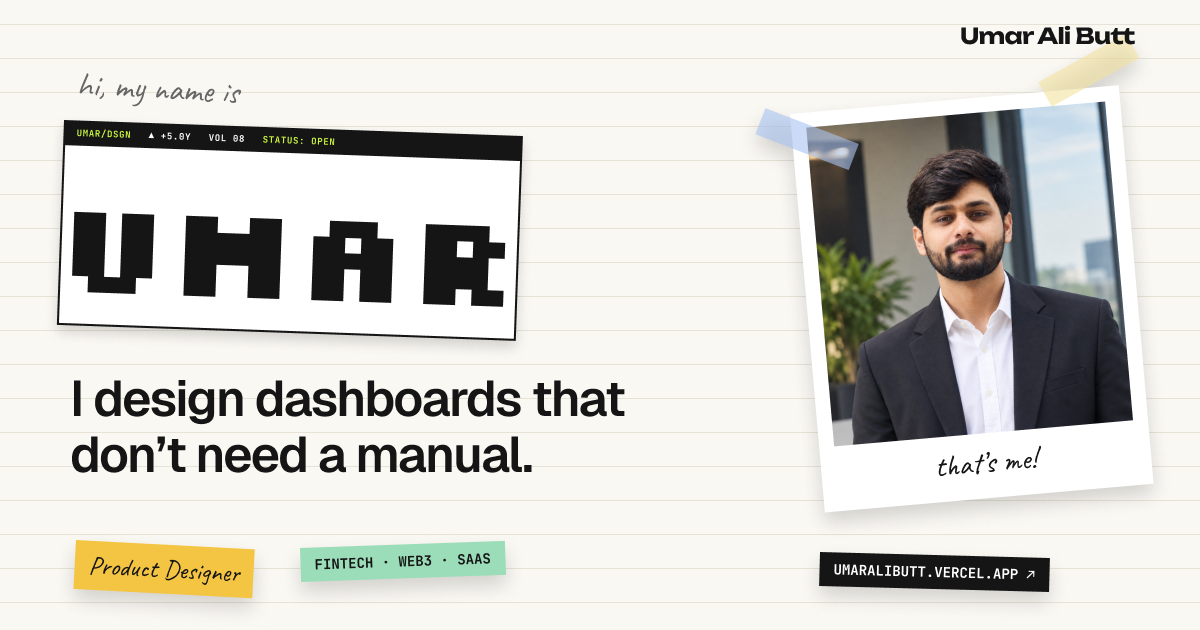
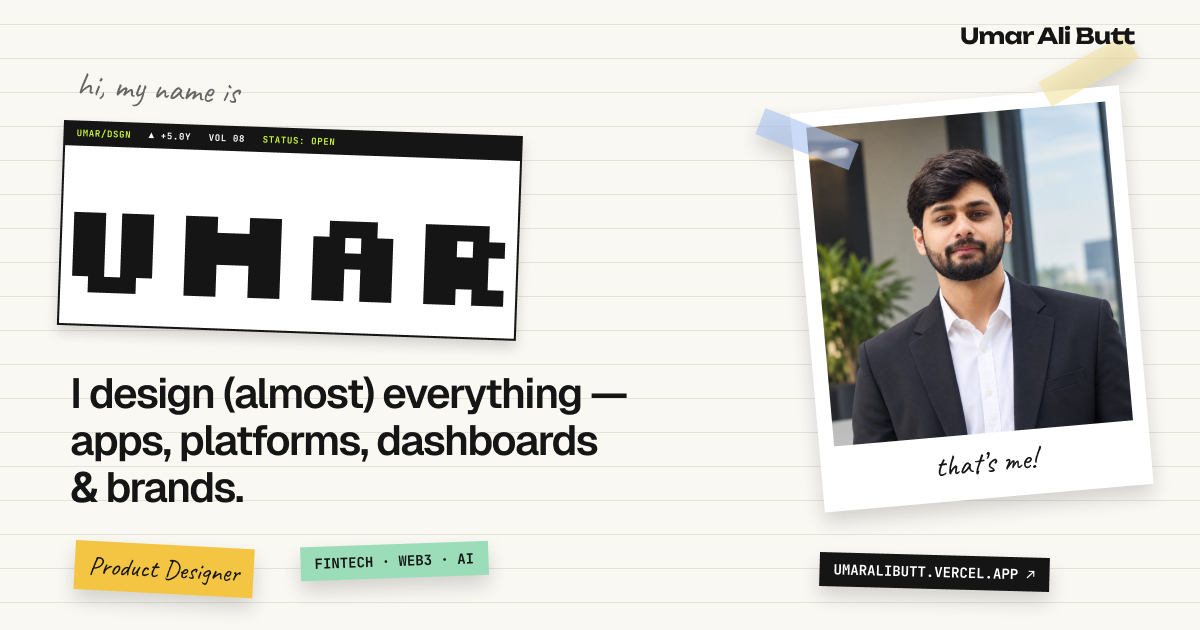
Reposition copy: I design (almost) everything, not dashboards-only
Claude-Session: https://claude.ai/code/session_01FHRpyrWJgE9aiUa2BqmqGA

Changed region(s): [[0.0617, 0.6032, 0.5242, 0.8143], [0.3392, 0.8444, 0.4317, 0.9349], [0.2775, 0.8746, 0.3083, 0.9048]]

diff --git a/app/page.tsx b/app/page.tsx
@@ -39,7 +39,7 @@ function Hero() {
 
         <div className="ticker-wrap">
           <TickerCard />
-          <Sticky color="var(--mint)" rot={4} className="deco st-dash">Dashboards &amp; data</Sticky>
+          <Sticky color="var(--mint)" rot={4} className="deco st-dash">Fintech · Web3 · AI</Sticky>
           <Sticky color="var(--tape2)" rot={-4} className="deco st-ships">Ships, not just shots</Sticky>
           <Sticky color="var(--yellow)" rot={5} hand className="deco st-role">Product Designer</Sticky>
           <HandArrow w={50} h={56} d="M40 4c5 20 0 36-30 44" end={[10, 48]} head={165} style={{ left: -100, top: 136 }} />
@@ -47,15 +47,15 @@ function Hero() {
           <HandArrow w={60} h={30} d="M2 12c14 14 34 12 52-2" end={[54, 10]} head={-25} style={{ left: 'calc(100% - 4px)', top: 186 }} />
         </div>
 
-        <p className="open"><span className="dot blue" />Open to new work &amp; messy dashboards</p>
+        <p className="open"><span className="dot blue" />Open to new work &amp; good problems</p>
 
         <div className="headline-wrap">
           <img src="/me.jpg" alt="" className="avatar av-l" />
           <img src="/me.jpg" alt="" className="avatar av-r" />
           <h1 className="headline">
-            I design dashboards <span className="h-ico green"><Icon name="trend" size={22} stroke="#fff" width={2.4} /></span>
+            I design (almost) everything <span className="h-ico green"><Icon name="trend" size={22} stroke="#fff" width={2.4} /></span>
             <br />
-            that don’t need a manual. <span className="h-ico pink"><Icon name="spark" size={20} stroke="#fff" width={2.4} /></span>
+            apps, platforms, dashboards &amp; brands. <span className="h-ico pink"><Icon name="spark" size={20} stroke="#fff" width={2.4} /></span>
           </h1>
         </div>
 
@@ -85,30 +85,30 @@ function About() {
         <Polaroid src="/desk.jpg" alt="Umar’s desk" caption="my desk" rot={-8} className="pol-r" />
 
         <p className="big-line">
-          I’m Umar <img src="/me.jpg" alt="" className="inline-me" /> a product designer in Islamabad who turns messy data{' '}
+          I’m Umar <img src="/me.jpg" alt="" className="inline-me" /> a product designer in Islamabad who turns complex ideas{' '}
           <svg className="glyph" viewBox="0 0 24 24" aria-hidden="true"><g fill="var(--yellow)"><rect x="1" y="1" width="10" height="22" rx="2" /><rect x="13" y="1" width="10" height="10" rx="2" /><rect x="13" y="13" width="10" height="10" rx="2" /></g></svg>{' '}
-          into screens that feel obvious{' '}
+          into products that feel obvious{' '}
           <svg className="glyph" viewBox="0 0 24 24" aria-hidden="true"><path d="M12 0c1 7 5 11 12 12-7 1-11 5-12 12-1-7-5-11-12-12 7-1 11-5 12-12z" fill="#E5306B" /></svg>
         </p>
         </div>
 
         <div className="skills">
           <div className="skill-row">
-            <span className="skill" style={{ background: 'var(--yellow)' }}>Dashboard Design</span>
+            <span className="skill" style={{ background: 'var(--yellow)' }}>Product Design</span>
             <span className="skill-ico ico-pop" style={{ background: 'var(--yellow)', outline: '1.5px dashed var(--ink)', outlineOffset: -4 }}>
               <svg viewBox="0 0 24 24"><g fill="var(--ink)"><rect x="3" y="3" width="8" height="8" rx="1.5" /><rect x="13" y="3" width="8" height="8" rx="1.5" /><rect x="3" y="13" width="8" height="8" rx="1.5" /><path d="M17 12.5l4.5 4.5-4.5 4.5-4.5-4.5z" /></g></svg>
             </span>
-            <span className="skill" style={{ background: 'var(--green)' }}>Prototyping</span>
+            <span className="skill" style={{ background: 'var(--green)' }}>Mobile &amp; Web Apps</span>
             <span className="skill-ico ico-spin" style={{ background: 'var(--green)' }}>
               <svg viewBox="0 0 24 24"><g stroke="var(--ink)" strokeWidth="1.6" strokeLinecap="round"><path d="M12 1v4M12 19v4M1 12h4M19 12h4M4.2 4.2l2.8 2.8M17 17l2.8 2.8M4.2 19.8 7 17M17 7l2.8-2.8" /></g><circle cx="12" cy="12" r="4.5" fill="#E5306B" /></svg>
             </span>
           </div>
           <div className="skill-row">
-            <span className="skill light" style={{ background: '#E5306B' }}>UX Audits</span>
+            <span className="skill light" style={{ background: '#E5306B' }}>Dashboards</span>
             <span className="skill-ico ico-blink" style={{ background: '#E5306B' }}>
               <svg viewBox="0 0 24 24"><path d="M1.5 12S5.5 5 12 5s10.5 7 10.5 7-4 7-10.5 7S1.5 12 1.5 12z" fill="#fff" /><circle cx="12" cy="12" r="4" fill="var(--orange)" /><circle cx="12" cy="12" r="1.6" fill="var(--yellow)" /></svg>
             </span>
-            <span className="skill" style={{ background: '#3CC8F0' }}>Design Systems</span>
+            <span className="skill" style={{ background: '#3CC8F0' }}>Branding &amp; Websites</span>
             <span className="skill-ico ico-twinkle" style={{ background: '#3CC8F0' }}>
               <svg viewBox="0 0 24 24"><g fill="var(--ink)"><circle cx="8" cy="9" r="1.5" /><circle cx="16" cy="13" r="1.5" /><circle cx="11" cy="17" r="1.5" /></g><g fill="#E5306B"><circle cx="4" cy="3" r="1.6" /><circle cx="18" cy="6" r="1.6" /><circle cx="20" cy="20" r="1.6" /></g></svg>
             </span>
@@ -182,7 +182,7 @@ function LetsTalk() {
           <span className="hand-note psst">psst — still here?</span>
         </div>
         <h2 className="pixel talk-title">Let’s talk</h2>
-        <p className="talk-sub">Got a messy dashboard, a half-baked idea, or just want to say hi?<br />Send it over — I reply within 24 hours.</p>
+        <p className="talk-sub">Got a product idea, a messy app, or just want to say hi?<br />Send it over — I reply within 24 hours.</p>
         <div className="talk-cta">
           <a href={`mailto:${site.email}`} className="mail-sticky">
             <span className="mono-sm"><Icon name="mail" size={13} />Drop a line</span>

diff --git a/app/about/page.tsx b/app/about/page.tsx
@@ -7,7 +7,7 @@ import Reveal from '@/components/Reveal';
 
 export const metadata: Metadata = {
   title: 'About — Umar Ali Butt',
-  description: 'Product designer in Islamabad who turns messy data into calm, clear screens — 5+ years across trading, fintech, Web3 and AI.',
+  description: 'Product designer in Islamabad who designs apps, platforms, dashboards and brands — 5+ years across fintech, Web3 and AI.',
 };
 
 const steps = [
@@ -50,7 +50,7 @@ export default function AboutPage() {
             <p className="hand-note kicker">the long version ↓</p>
             <h1 className="pixel about-title">About</h1>
             <p className="about-lead">
-              I’m a product designer who gets a little too excited about turning messy data into calm, clear screens.{' '}
+              I’m a product designer who gets a little too excited about turning complex ideas into calm, clear products.{' '}
               <svg className="lead-spark" viewBox="0 0 24 24" aria-hidden="true"><path d="M12 0c1 7 5 11 12 12-7 1-11 5-12 12-1-7-5-11-12-12 7-1 11-5 12-12z" fill="var(--ink)" /></svg>
             </p>
             <div className="about-body">

diff --git a/app/layout.tsx b/app/layout.tsx
@@ -16,11 +16,11 @@ const siteUrl = process.env.NEXT_PUBLIC_SITE_URL
 
 export const metadata: Metadata = {
   metadataBase: new URL(siteUrl),
-  title: 'Umar Ali Butt — Product Designer for dashboards, fintech & Web3',
-  description: 'I design dashboards that don’t need a manual. Product designer in Islamabad for fintech, Web3 and SaaS.',
+  title: 'Umar Ali Butt — Product Designer for apps, web & brands',
+  description: 'I design (almost) everything — apps, platforms, dashboards & brands. Product designer in Islamabad for fintech, Web3 and AI.',
   openGraph: {
-    title: 'Umar Ali Butt — Product Designer for dashboards, fintech & Web3',
-    description: 'I design dashboards that don’t need a manual.',
+    title: 'Umar Ali Butt — Product Designer for apps, web & brands',
+    description: 'I design (almost) everything — apps, platforms, dashboards & brands.',
   },
 };
 

diff --git a/components/ContactForm.tsx b/components/ContactForm.tsx
@@ -57,7 +57,7 @@ export default function ContactForm() {
 
   return (
     <form className="contact-card" onSubmit={onSubmit}>
-      <p className="contact-intro">Got a project, a messy dashboard, or just want to say hi? I read every message and reply within 24 hours.</p>
+      <p className="contact-intro">Got a project, a product idea, or just want to say hi? I read every message and reply within 24 hours.</p>
 
       <label className="field" style={{ '--rot': '0.4deg' } as React.CSSProperties}>
         <Icon name="user" size={18} />

diff --git a/app/work/page.tsx b/app/work/page.tsx
@@ -29,7 +29,7 @@ export default function WorkPage() {
 
       <Reveal className="work-cta">
         <div className="wrap">
-          <h2 className="pixel cta-title">Got a messy dashboard?</h2>
+          <h2 className="pixel cta-title">Got something to design?</h2>
           <p className="hand-note cta-sub">Send it over — I’ll tell you what I’d fix first.</p>
           <Btn href="/contact">Start a project</Btn>
         </div>

diff --git a/app/contact/page.tsx b/app/contact/page.tsx
@@ -7,7 +7,7 @@ import ContactForm from '@/components/ContactForm';
 
 export const metadata: Metadata = {
   title: 'Contact — Umar Ali Butt',
-  description: 'Got a project, a messy dashboard, or just want to say hi? Umar replies within 24 hours.',
+  description: 'Got a project, a product idea, or just want to say hi? Umar replies within 24 hours.',
 };
 
 export default function ContactPage() {

diff --git a/CLAUDE.md b/CLAUDE.md
@@ -1,6 +1,6 @@
 # Umar Ali Butt — Portfolio site
 
-Personal portfolio for Umar Ali Butt, product designer (dashboards, fintech, Web3, SaaS) in Islamabad. Goal: win freelance clients **and** full-time roles. The design is final in Figma — build it faithfully, page by page, and let Umar review each page before moving on.
+Personal portfolio for Umar Ali Butt, product designer in Islamabad who designs (almost) everything — apps, platforms, dashboards & brands — strongest in fintech, Web3 and AI. Don’t frame him as dashboards-only. Goal: win freelance clients **and** full-time roles. The design is final in Figma — build it faithfully, page by page, and let Umar review each page before moving on.
 
 ## Working style
 - Umar wants **usage-efficient** collaboration: short updates, no long recaps, batch related edits, don't re-read files unnecessarily.
@@ -66,14 +66,14 @@ Warm notebook paper, pixel display type, handwriting, washi tape, polaroids, tor
 
 ## Pages
 **Home (`/`)**
-1. Hero (≈920px): "hi, my name is" (Caveat 30) + squiggle underline → TickerCard centred (-1.5°). Around it: stickies "DASHBOARDS & DATA" (mint), "SHIPS, NOT JUST SHOTS" (tape2), "Product Designer" (yellow, Caveat) + hand arrow, "Islamabad, PK" (mint, Caveat) + hand arrow. Line: blue dot + mono "OPEN TO NEW WORK & MESSY DASHBOARDS". Two round avatar stickers of `me.jpg` (68px, 3px orange ring) left & right. Headline "I design dashboards [green circle trend icon] that don’t need a manual. [pink circle spark icon]" (Geist 600 60px, centred). Btn "HIRE ME" + Caveat "(or just say hi)". Curved hairline divider.
-2. About strip: Caveat "about me!" top-left; "what’s up" label styled as a Figma selection box (2px ink border + 4 corner handles); cursor + black "YOU" pill top-right; big centred sentence (Geist 500 70px, -3.2px): "I’m Umar [me.jpg 64px square] a product designer in Islamabad who turns messy data [yellow dashboard glyph] into screens that feel obvious [pink spark glyph]"; polaroids left ("2026", me.jpg, 9°) and right ("my desk", 8°, placeholder ok); skill blocks: solid colour bars + illustrated square icons — Dashboard Design (yellow), Prototyping (green), UX Audits (pink, white text), Design Systems (cyan #3CC8F0); Caveat "← these are my love languages".
+1. Hero (≈920px): "hi, my name is" (Caveat 30) + squiggle underline → TickerCard centred (-1.5°). Around it: stickies "FINTECH · WEB3 · AI" (mint), "SHIPS, NOT JUST SHOTS" (tape2), "Product Designer" (yellow, Caveat) + hand arrow, "Islamabad, PK" (mint, Caveat) + hand arrow. Line: blue dot + mono "OPEN TO NEW WORK & GOOD PROBLEMS". Two round avatar stickers of `me.jpg` (68px, 3px orange ring) left & right. Headline "I design (almost) everything [green circle trend icon] / apps, platforms, dashboards & brands. [pink circle spark icon]" (Geist 600 60px, centred). Btn "HIRE ME" + Caveat "(or just say hi)". Curved hairline divider.
+2. About strip: Caveat "about me!" top-left; "what’s up" label styled as a Figma selection box (2px ink border + 4 corner handles); cursor + black "YOU" pill top-right; big centred sentence (Geist 500 70px, -3.2px): "I’m Umar [me.jpg 64px square] a product designer in Islamabad who turns complex ideas [yellow dashboard glyph] into products that feel obvious [pink spark glyph]"; polaroids left ("2026", me.jpg, 9°) and right ("my desk", 8°, placeholder ok); skill blocks: solid colour bars + illustrated square icons — Product Design (yellow), Mobile & Web Apps (green), Dashboards (pink, white text), Branding & Websites (cyan #3CC8F0); Caveat "← these are my love languages".
 3. Selected work: Caveat "stuff i’m proud of ↓" + Silkscreen "SELECTED WORK". The 4 folders from `projects[0..3]` stacked; **on desktop folders are `position: sticky` and stack as you scroll** (top offsets 90px + i×28px). Then Caveat "+ 13 more in the archive →" + pink sticky "LEGION · PACE · PULSE · EMBER · VION · ZKOP + 7 CONCEPTS" linking to /work.
 4. In numbers: Caveat "receipts, not vibes" + Silkscreen "IN NUMBERS". Four taped sticky stats (270×250, tilted): **12** products designed & shipped (coins icon, yellow) · **5+** years in fintech, web3 & AI (users, mint) · **4 mo** for Youngs Capital to hit Top-10 broker (trophy, pink) · **<24h** my reply time, every time (clock, tape1).
-5. Let’s talk: pixel bar-chart icon (black squares, lime tops) + Caveat "psst — still here?"; Silkscreen "LET’S TALK" 150px; 20px sub "Got a messy dashboard, a half-baked idea, or just want to say hi? Send it over — I reply within 24 hours."; yellow sticky with mail icon "Drop a line" + `ub1894497@gmail.com`; Btn "START A PROJECT".
+5. Let’s talk: pixel bar-chart icon (black squares, lime tops) + Caveat "psst — still here?"; Silkscreen "LET’S TALK" 150px; 20px sub "Got a product idea, a messy app, or just want to say hi? Send it over — I reply within 24 hours."; yellow sticky with mail icon "Drop a line" + `ub1894497@gmail.com`; Btn "START A PROJECT".
 6. Footer.
 
-**Work (`/work`)** — Caveat "everything i’ve shipped (and a few i dreamt up) ↓", Silkscreen "ALL WORK"; torn filter tags (All 17 yellow, Fintech mint, Web3 blue/white, Trading pink, AI tape1, Concepts tape2) — make them real client-side filters; yellow sticky "pick one, any one →". 3-column grid of `projects` (10). Then section Caveat "side quests, dribbble shots & concepts ↓" + Silkscreen "CONCEPTS & SHOTS" with the 7 `concepts`. CTA: Silkscreen "GOT A MESSY DASHBOARD?", Caveat "Send it over — I’ll tell you what I’d fix first.", Btn. Every card links to its case study at `/work/[slug]`.
+**Work (`/work`)** — Caveat "everything i’ve shipped (and a few i dreamt up) ↓", Silkscreen "ALL WORK"; torn filter tags (All 17 yellow, Fintech mint, Web3 blue/white, Trading pink, AI tape1, Concepts tape2) — make them real client-side filters; yellow sticky "pick one, any one →". 3-column grid of `projects` (10). Then section Caveat "side quests, dribbble shots & concepts ↓" + Silkscreen "CONCEPTS & SHOTS" with the 7 `concepts`. CTA: Silkscreen "GOT SOMETHING TO DESIGN?", Caveat "Send it over — I’ll tell you what I’d fix first.", Btn. Every card links to its case study at `/work/[slug]`.
 
 **Case study (`/work/youngs-capital`)** — template for future ones:
 - Caveat "← back to all work"; mono "PROJECT 01 · LIVE"; Silkscreen "YOUNGS / CAPITAL" (2 lines, ~130px); Geist 600 36px tagline "Pakistan’s first profit-and-loss sharing brokerage — invest, trade and grow on the PSX, with a partner that stands beside you."; meta stickies (Industry FinTech yellow · Platform iOS & Android mint · Timeline 8 Weeks pink · My role Product Designer tape1); Caveat "↓ the receipts".
@@ -83,11 +83,11 @@ Warm notebook paper, pixel display type, handwriting, washi tape, polaroids, tor
 - "about the product": stats Top-10 (CDC-ranked broker within 4 months) · 4.8★ (on the App Store) · P&L sharing (a first for Pakistan).
 - "next up →" blue folder → Prime Traders (`/work/prime-traders.jpg`, not a link yet).
 
-**About (`/about`)** — Caveat "the long version ↓", Silkscreen "ABOUT"; polaroid of me.jpg "that’s me, 2026" (5°); Caveat 38px intro "I’m a product designer who gets a little too excited about turning messy data into calm, clear screens. ✦"; two body paragraphs (5+ years designing web & mobile products for trading platforms, prediction markets, crypto wallets, brokerages and AI tools; favourite briefs start with “it works, but nobody gets it.” / work closely with founders, PMs and developers… based in Islamabad, working with teams everywhere); signature "— Umar". THE PROCESS: 4 tilted sticky steps — 01 Untangle it, 02 Sketch it ugly, 03 Make it obvious, 04 Ship it together. EXPERIENCE: two index-card rows — (1) "Freelance Product Designer" · "Youngs Capital · Prime Traders · Traqstock · VEYRO · Legion & more" · "20XX — NOW"; (2) "Senior Product Designer" · "Quecko Inc" · "SEP 2021 — NOW". Toolbox torn tags: Figma, FigJam, Framer, Protopie, Claude, Notion, Jitter. Fun-fact stickies: Based in Islamabad, PK (GMT+5) · 5+ years designing products · 12 products & counting · Has designed more trading screens than he’s made trades.
+**About (`/about`)** — Caveat "the long version ↓", Silkscreen "ABOUT"; polaroid of me.jpg "that’s me, 2026" (5°); Caveat 38px intro "I’m a product designer who gets a little too excited about turning complex ideas into calm, clear products. ✦"; two body paragraphs (5+ years designing web & mobile products for trading platforms, prediction markets, crypto wallets, brokerages and AI tools; favourite briefs start with “it works, but nobody gets it.” / work closely with founders, PMs and developers… based in Islamabad, working with teams everywhere); signature "— Umar". THE PROCESS: 4 tilted sticky steps — 01 Untangle it, 02 Sketch it ugly, 03 Make it obvious, 04 Ship it together. EXPERIENCE: two index-card rows — (1) "Freelance Product Designer" · "Youngs Capital · Prime Traders · Traqstock · VEYRO · Legion & more" · "20XX — NOW"; (2) "Senior Product Designer" · "Quecko Inc" · "SEP 2021 — NOW". Toolbox torn tags: Figma, FigJam, Framer, Protopie, Claude, Notion, Jitter. Fun-fact stickies: Based in Islamabad, PK (GMT+5) · 5+ years designing products · 12 products & counting · Has designed more trading screens than he’s made trades.
 
 **Playground (`/playground`)** — Silkscreen "JUST FOR FUN" centred, Caveat sub "concepts, experiments & dribbble shots — the stuff i make when nobody’s asking"; free-form collage of `playShots` as tilted polaroids with Caveat captions + small coloured label stickies ("first try!", "hello world", "practice", "what is this"); tiny +/– zoom control decoration bottom-right. On mobile, collapse to a 1–2 column masonry.
 
-**Contact (`/contact`)** — Caveat "say hi"; "CONTACT" Silkscreen inside a blue Figma-style selection box (2px #2F5BEA border + corner handles); yellow (tape2) card form, 612px: intro "Got a project, a messy dashboard, or just want to say hi? I read every message and reply within 24 hours."; fields with icons (user / mail / message), 1.5px ink borders, white; "What’s it about?" with chips (Dashboard ●selected-ink, Web app, Mobile app, UX audit, Full-time role — each with an icon; they wrap); Btn "SEND IT". Polaroid me.jpg "hi, it’s me" left (-6°), polaroid pulse cover "recent work" right (5°); Caveat "(the form works, promise)" with an SVG hand-drawn arrow; availability line; email with mail icon; social circles.
+**Contact (`/contact`)** — Caveat "say hi"; "CONTACT" Silkscreen inside a blue Figma-style selection box (2px #2F5BEA border + corner handles); yellow (tape2) card form, 612px: intro "Got a project, a product idea, or just want to say hi? I read every message and reply within 24 hours."; fields with icons (user / mail / message), 1.5px ink borders, white; "What’s it about?" with chips (Dashboard ●selected-ink, Web app, Mobile app, UX audit, Full-time role — each with an icon; they wrap); Btn "SEND IT". Polaroid me.jpg "hi, it’s me" left (-6°), polaroid pulse cover "recent work" right (5°); Caveat "(the form works, promise)" with an SVG hand-drawn arrow; availability line; email with mail icon; social circles.
 
 ## Case studies for every project (designed in Figma)
 Every Work card links to its own page at `/work/[slug]` (use one dynamic route + a `caseStudies` data map). All follow the Youngs Capital template; concepts use a lighter "shot page" (header, hero, gallery, next-up — no problem/fix).
@@ -111,4 +111,4 @@ Figma frames (page "Umar's Website") — use `get_screenshot` for layout and exp
 - <768: single column, pixel titles scale with `clamp()`, hide decorative stickers that would overlap, folders not sticky (normal stack), nav collapses.
 
 ## SEO
-- `<title>` "Umar Ali Butt — Product Designer for dashboards, fintech & Web3", description from the hero line, Open Graph image (use `/work/youngs-capital.jpg` until a custom one exists).
+- `<title>` "Umar Ali Butt — Product Designer for apps, web & brands", description from the hero line. Site-wide preview card: `app/opengraph-image.png` (Figma frame `173:24`).
